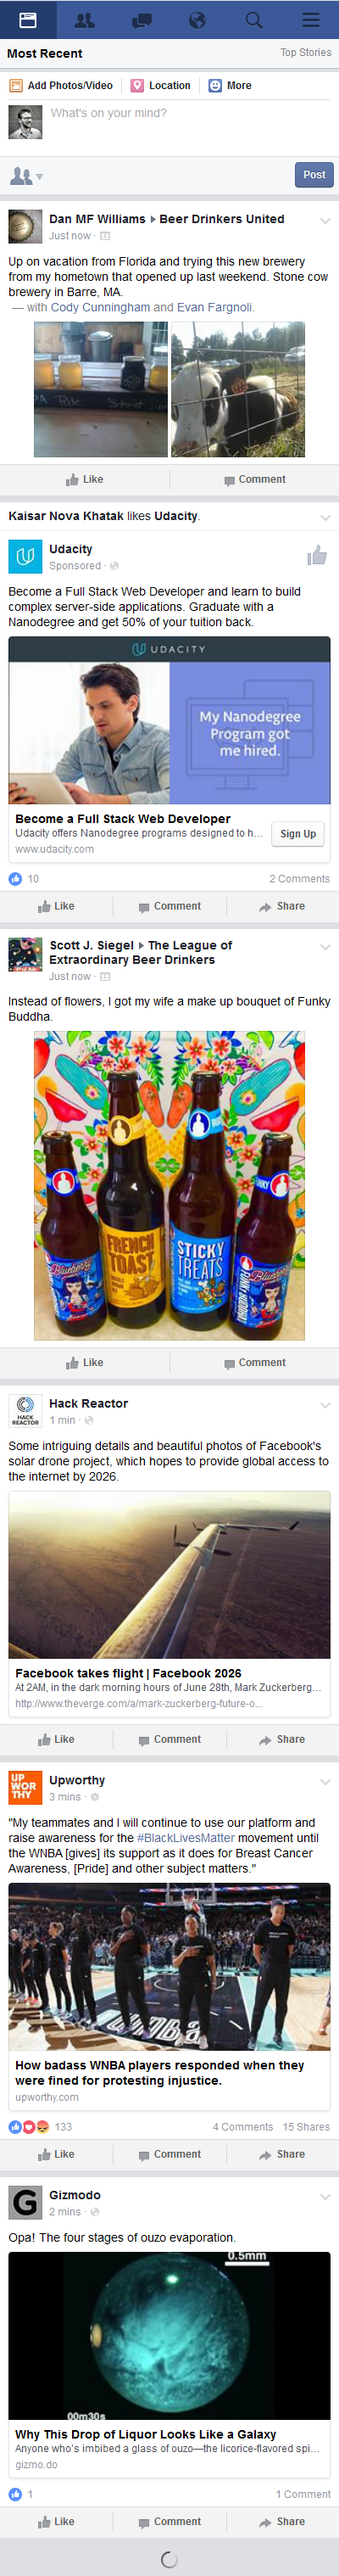
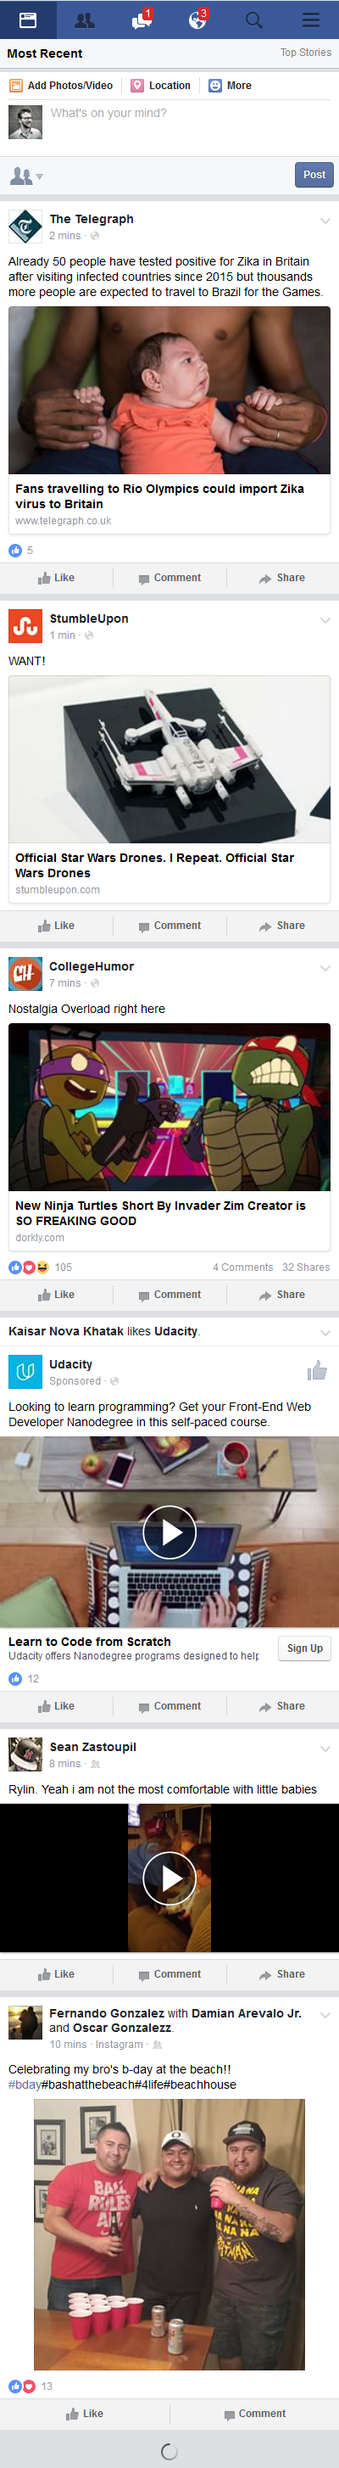
(chore) Small cleanup

diff --git a/server/config/helpers.js b/server/config/helpers.js
@@ -1,0 +1,88 @@
+
+
+function scrape (loginParams) {
+const phantom = require('phantom');
+const cheerio = require('cheerio');
+
+let sitepage = null;
+let phInstance = null;
+let content = null;
+let posts = null;
+
+phantom.create()
+  .then(instance => {
+      phInstance = instance;
+      return instance.createPage();
+  })
+  .then(page => {
+      sitepage = page;
+      sitepage.property('onConsoleMessage', function(msg) {
+        console.log("CM: " + msg);
+      });
+      return page.open('https://m.facebook.com/');
+  })
+  .then(status => {
+    console.log(status);
+    sitepage.evaluate(function(args) {
+      document.querySelector(args[0].usernameSelector).value = args[1].FB_USER;
+      document.querySelector(args[0].passwordSelector).value = args[1].FB_PW;
+      document.querySelector(args[0].buttonSelector).click();
+      return;
+    }, [loginParams, process.env])
+    .then(() => {
+      setTimeout(function(){
+        sitepage.evaluate(function() {
+          document.querySelector('#bookmarks_jewel a').click();
+        }).then(() => {
+          setTimeout(function() {
+            sitepage.evaluate(function() {
+              document.querySelector('[data-testid="most_recent_tab"]').parentNode.click();
+            }).then(() => {
+              setTimeout(function() {
+              sitepage.render('./picture2.png');
+                sitepage.evaluate(function() {
+                  window.setInterval(function() {
+                    window.scrollBy(0, 10000);
+                  }, 6000)
+                  return;
+                })
+                .then(()=>{
+                  setTimeout(function() {
+                    sitepage.property('content')
+                    .then((content) => {
+                      $ = cheerio.load(content);
+                      $('#m_newsfeed_stream article').each(function (i, el) {
+                        let post = {};
+                        //Name
+                        console.log("Name: " + $(el).find('._52jd a').text());
+                        //Time
+                        console.log("Time: " + $(el).find('._52jc abbr').text());
+                        //Header
+                        console.log("Content: " + $(el).find('._5rgt span p').text());
+                        //link
+                        let link = $(el).find('._4o50').toString();
+                        if (link) {
+                          console.log('Link: ' + decodeURIComponent(link.slice(link.indexOf('u=') + 2, link.indexOf('&amp;h='))))
+                          console.log('LinkHead: ' + $(el).find('._55wr ._hm6').text());
+                          console.log('LinkContent: ' + $(el).find('._52jc._52jg._24u1._4o59._3u26._5tg_').text())
+                        }
+                        console.log('\n');
+                      });
+                    })
+                    phInstance.exit();
+                  }, 13000);
+                })
+              }, 3000)
+            })
+          }, 2000)
+        })
+      }, 5000);
+    })
+  })
+  .catch(error => {
+      console.log(error);
+      phInstance.exit();
+  });
+}
+
+module.exports.scrape = scrape;

diff --git a/server/server.js b/server/server.js
@@ -1,6 +1,6 @@
 let express   = require('express'),
     mongoose  = require('mongoose'),
-    scrape    = require('../client/js/scraper');
+    scraper    = require('./config/helpers');
 
 let app = express();
 
@@ -10,12 +10,10 @@ require('./config/middleware.js')(app, express);
 
 // app.listen(process.env.PORT);
 
-let request = require('request');
-
-// request(process.env.FB_URL, (err, res, body) => {
-//   console.log('HERE', body);
-// });
-
 module.exports = app;
 
-scrape()
+scraper.scrape({
+  usernameSelector: '[placeholder="Email or Phone"]',
+  passwordSelector: '[placeholder="Password"]',
+  buttonSelector: '[name="login"]'
+});

diff --git a/client/js/reddit.js b/client/js/reddit.js
@@ -1,0 +1,7 @@
+let request = require('request');
+
+request.get('http://www.reddit.com/hot.json', function (error, response, body) {
+  if (!error && response.statusCode == 200) {
+    console.log(response);
+  }
+});
